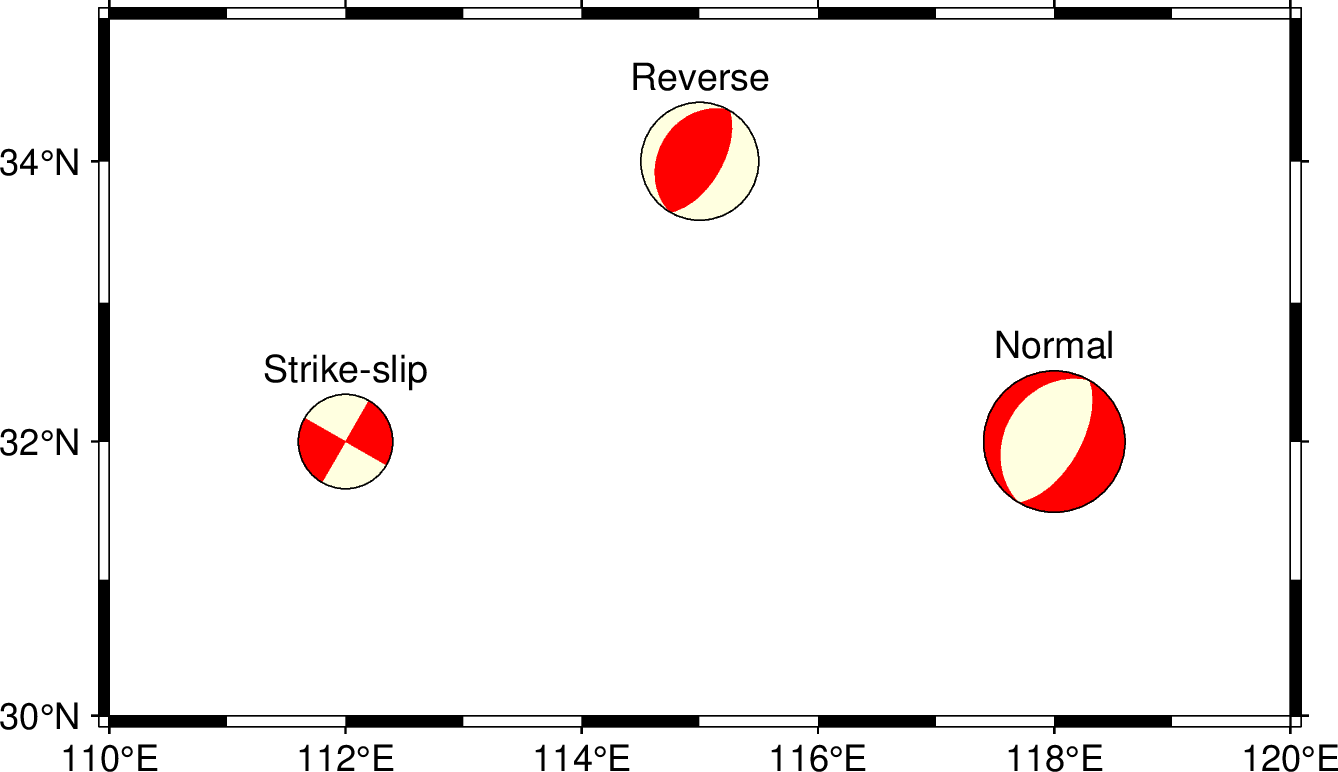
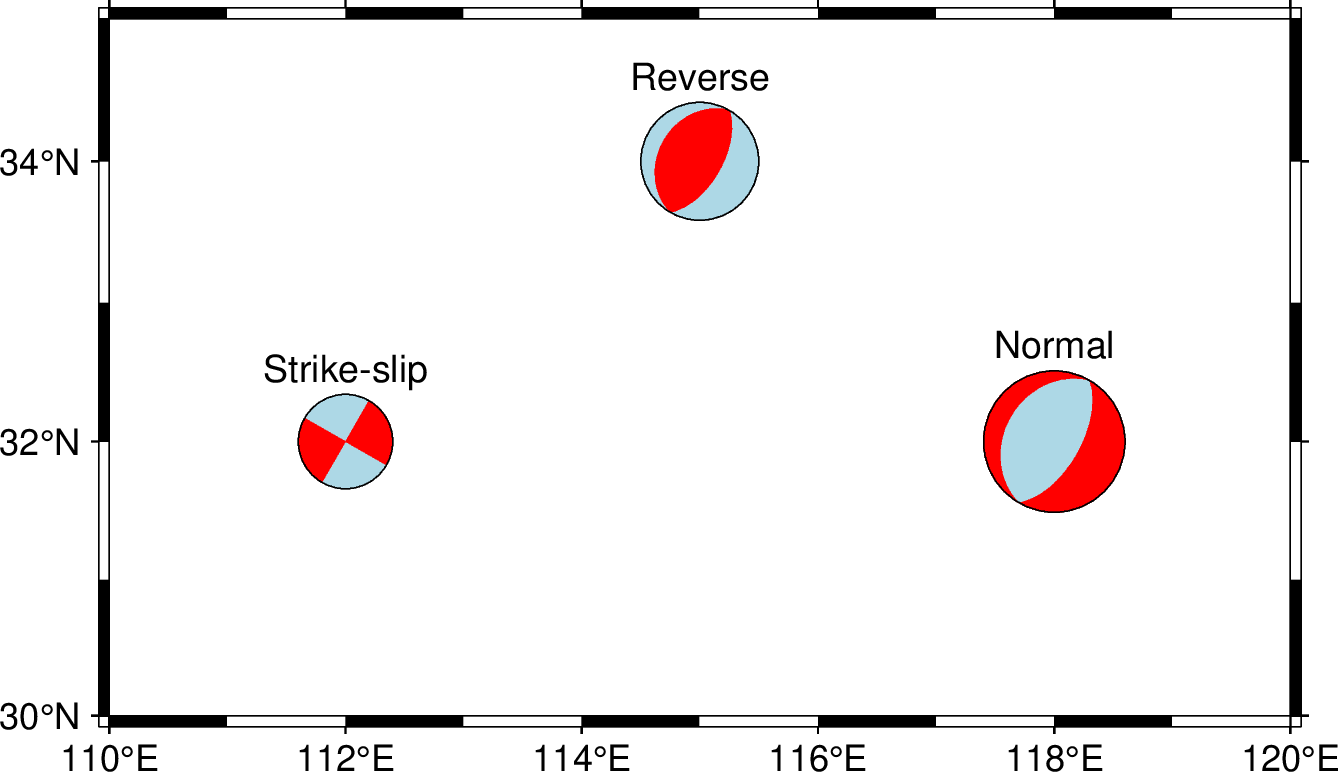
Finalize the scripts and images for the seismology session (#21)

Changed region(s): [[0.4596, 0.1244, 0.5822, 0.2798], [0.7354, 0.4663, 0.8274, 0.6528], [0.2145, 0.4974, 0.3064, 0.6528]]

diff --git a/5_seismology/README.md b/5_seismology/README.md
@@ -58,9 +58,21 @@ Other useful options:
 - **-G**: color for compressional quadrants
 - **-C**: paint the compressional quadrants based on depth (you need to create a CPT by calling [`makecpt`](https://docs.generic-mapping-tools.org/6.4/makecpt.html) module first)
 
-**A simple plot**: [beachball.sh](beachball.sh)
+**The simplest example**: [beachball.sh](beachball.sh)
 
 <img src="beachball.png" width="600">
+
+**Beachballs with the same size**: [beachball-same-size.sh](beachball-same-size.sh)
+
+<img src="beachball-same-size.png" width="600">
+
+**Beachballs with  customized event labels**: [beachball-customized-labels.sh](beachball-customized-labels.sh)
+
+<img src="beachball-customized-labels.png" width="600">
+
+**Beachballs without event labels**: [beachball-no-labels.sh](beachball-no-labels.sh)
+
+<img src="beachball-no-labels.png" width="600">
 
 **Different colors**: [beachball-colors.sh](beachball-colors.sh)
 
@@ -74,12 +86,8 @@ Other useful options:
 
 [`coupe`](https://docs.generic-mapping-tools.org/6.4/supplements/seis/coupe.html) module can cut and plot beachballs in cross-sections (e.g., a vertical cross-section).
 
-Two most important options:
-
-- [`-S`](https://docs.generic-mapping-tools.org/6.4/supplements/seis/coupe.html#s): the same as **meca**
-- [`-A`](https://docs.generic-mapping-tools.org/6.4/supplements/seis/coupe.html#a): determine the cross-section
-
-Other options are the same as **meca**.
+Most options of **coupe** have the same meaning as in **meca**. The most important
+and unique option is [`-A`](https://docs.generic-mapping-tools.org/6.4/supplements/seis/coupe.html#a), to determine the cross-section.
 
 There are different ways to specify the geometry of a cross-section. Here we will
 use **-Aa** as an example. The full syntax of the **-A** option is:
@@ -141,8 +149,8 @@ You will be split into teams to work on an exercise:
 **TIPS**
 
 - You need to use `-Sd`, `-Sm` or `-Sz` for GCMT solutions, **NOT** `-Sa`.
-- Use `-S+f0p` to set the font size of the event labels to zero, so that
-  **meca** and **coupe** won't plot the event lables
+- Use `+f0p` in the `-S` option to set the font size of the event labels to zero,
+  so that **meca** and **coupe** won't plot the event lables
 - You may have white beachballs if the event depth is out of the CPT range
 
 Map view (**meca**)        |  Cross-section view (**coupe**)
